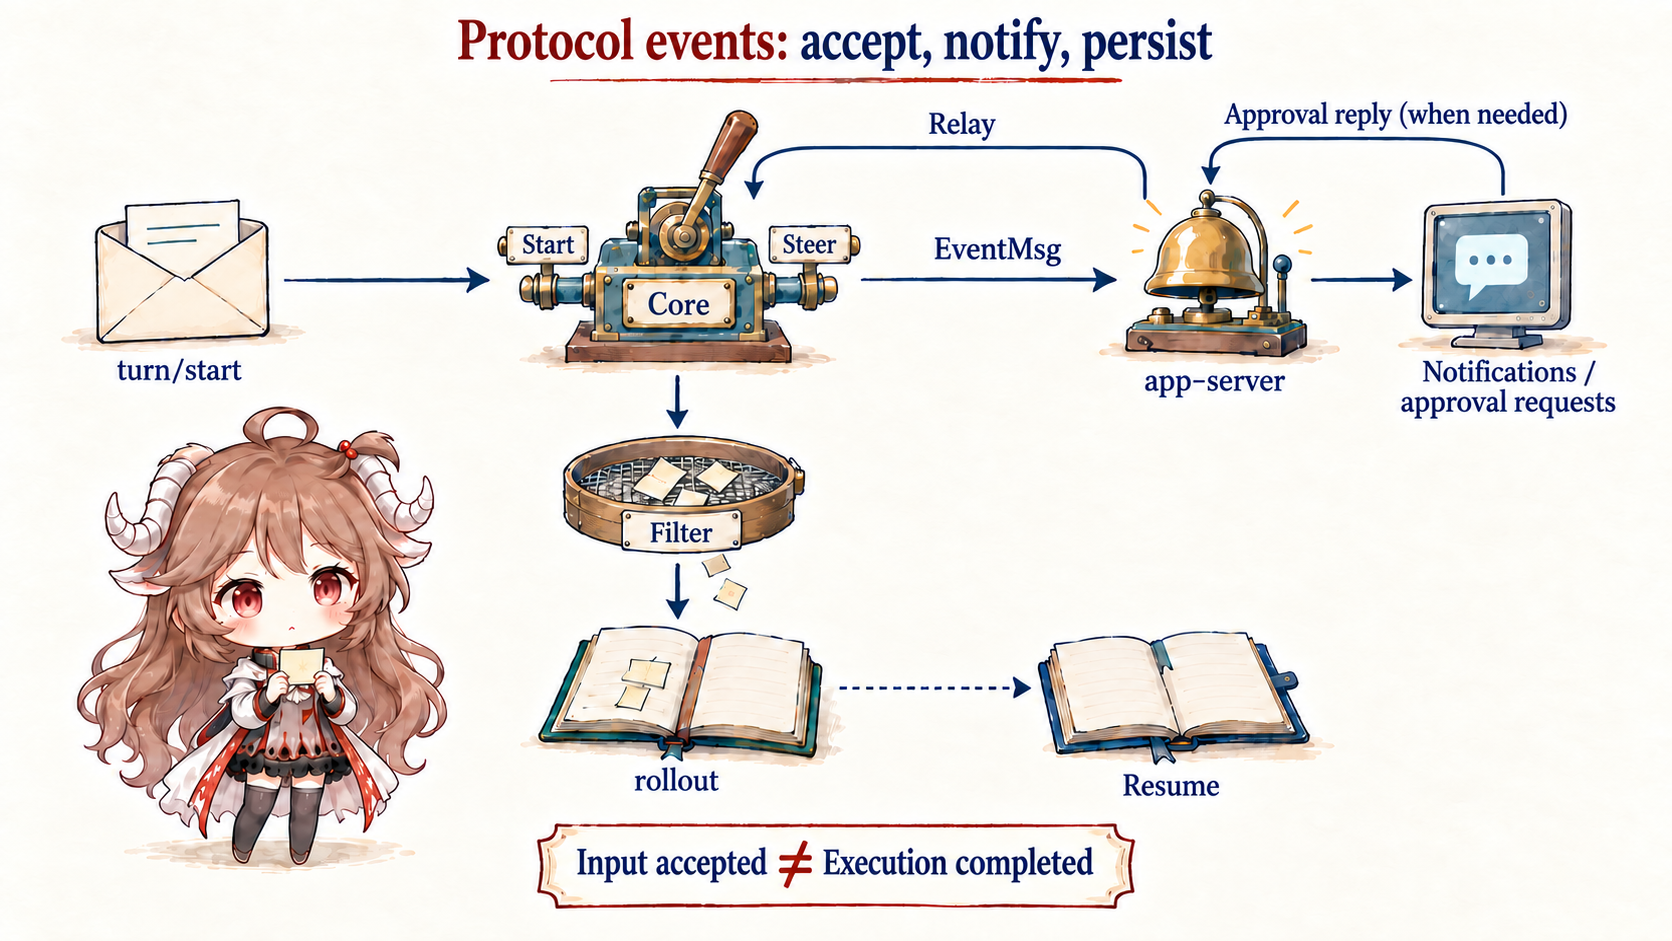
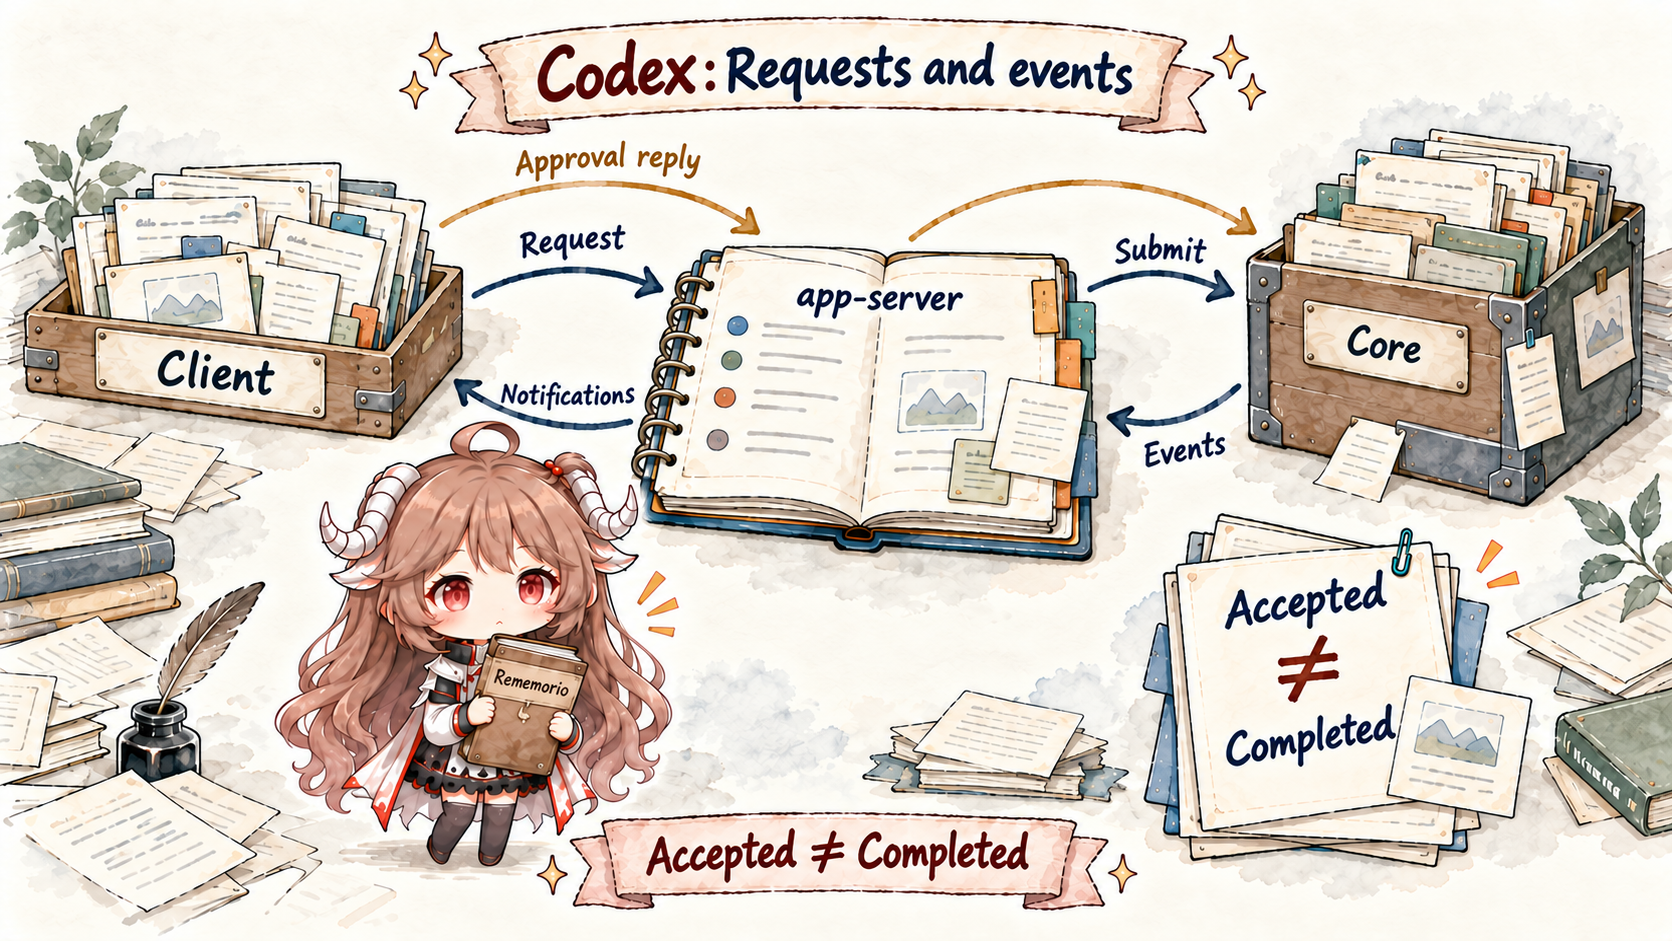
Redraw Codex protocol figures in memory illustration style

diff --git a/en/index.html b/en/index.html
@@ -1081,7 +1081,7 @@
           </a>
           <a class="post-card" href="../codex/en/protocol-events/" lang="en">
             <span class="post-thumb" aria-hidden="true">
-              <img src="../codex/en/assets/protocol-event-stream.png" alt="Codex starts or steers a turn, maps core events to app-server notifications and approval requests, and separately persists selected rollout records for recovery" />
+              <img src="../codex/en/assets/protocol-event-stream.png" alt="Codex requests and approval replies pass through app-server to Core; events return to the client, while acceptance differs from completion" />
             </span>
             <span>
               <span class="tag">Source notes</span>
@@ -1209,7 +1209,7 @@
           </a>
           <a class="post-card" href="../codex/en/sdk-app-server/" lang="en">
             <span class="post-thumb" aria-hidden="true">
-              <img src="../codex/en/assets/protocol-event-stream.png" alt="App-server parses turn/start input for core, separating notifications, approval replies, and selected persistence" />
+              <img src="../codex/en/assets/protocol-event-stream.png" alt="Codex requests and approval replies pass through app-server to Core; events return to the client, while acceptance differs from completion" />
             </span>
             <span>
               <span class="tag">Source notes</span>

diff --git a/zh/index.html b/zh/index.html
@@ -1107,7 +1107,7 @@
           </a>
           <a class="post-card" href="../codex/zh/protocol-events/" lang="zh-CN">
             <span class="post-thumb" aria-hidden="true">
-              <img src="../codex/zh/assets/protocol-event-stream.png" alt="Codex 从 turn/start 启动或补充 turn，core 事件经 app-server 转成通知和审批请求，另一路筛选保存到 rollout 供恢复" />
+              <img src="../codex/zh/assets/protocol-event-stream.png" alt="Codex 请求经 app-server 提交到 Core，事件返回客户端，审批答复同样经过 app-server，已接受不等于已完成" />
             </span>
             <span>
               <span class="tag">源码阅读</span>
@@ -1235,7 +1235,7 @@
           </a>
           <a class="post-card" href="../codex/zh/sdk-app-server/" lang="zh-CN">
             <span class="post-thumb" aria-hidden="true">
-              <img src="../codex/zh/assets/protocol-event-stream.png" alt="turn/start 输入经 app-server 解析后进入 core，通知、审批往返与筛选持久化分开" />
+              <img src="../codex/zh/assets/protocol-event-stream.png" alt="Codex 请求经 app-server 提交到 Core，事件返回客户端，审批答复同样经过 app-server，已接受不等于已完成" />
             </span>
             <span>
               <span class="tag">源码阅读</span>

diff --git a/codex/en/index.html b/codex/en/index.html
@@ -279,7 +279,7 @@
         </a>
         <a class="post-card" href="./protocol-events/">
           <span class="post-thumb" aria-hidden="true">
-            <img src="assets/protocol-event-stream.png" alt="Codex starts or steers a turn, maps core events to app-server notifications and approval requests, and separately persists selected rollout records for recovery" />
+            <img src="assets/protocol-event-stream.png" alt="Codex requests and approval replies pass through app-server to Core; events return to the client, while acceptance differs from completion" />
           </span>
           <span>
             <span class="tag">Source Notes · Part III</span>
@@ -407,7 +407,7 @@
         </a>
         <a class="post-card" href="./sdk-app-server/">
           <span class="post-thumb" aria-hidden="true">
-            <img src="assets/protocol-event-stream.png" alt="App-server parses turn/start input for core, separating notifications, approval replies, and selected persistence" />
+            <img src="assets/protocol-event-stream.png" alt="Codex requests and approval replies pass through app-server to Core; events return to the client, while acceptance differs from completion" />
           </span>
           <span>
             <span class="tag">Source Notes · Part XI</span>

diff --git a/codex/zh/index.html b/codex/zh/index.html
@@ -278,7 +278,7 @@
         </a>
         <a class="post-card" href="./protocol-events/">
           <span class="post-thumb" aria-hidden="true">
-            <img src="assets/protocol-event-stream.png" alt="Codex 从 turn/start 启动或补充 turn，core 事件经 app-server 转成通知和审批请求，另一路筛选保存到 rollout 供恢复" />
+            <img src="assets/protocol-event-stream.png" alt="Codex 请求经 app-server 提交到 Core，事件返回客户端，审批答复同样经过 app-server，已接受不等于已完成" />
           </span>
           <span>
             <span class="tag">源码阅读 · 第三篇</span>
@@ -406,7 +406,7 @@
         </a>
         <a class="post-card" href="./sdk-app-server/">
           <span class="post-thumb" aria-hidden="true">
-            <img src="assets/protocol-event-stream.png" alt="turn/start 输入经 app-server 解析后进入 core，通知、审批往返与筛选持久化分开" />
+            <img src="assets/protocol-event-stream.png" alt="Codex 请求经 app-server 提交到 Core，事件返回客户端，审批答复同样经过 app-server，已接受不等于已完成" />
           </span>
           <span>
             <span class="tag">源码阅读 · 第十一篇</span>

diff --git a/codex/en/protocol-events/index.html b/codex/en/protocol-events/index.html
@@ -98,9 +98,9 @@
             <figure class="hero-image">
               <img
                 src="../assets/protocol-event-stream.png"
-                alt="Codex starts or steers a turn, maps core events to app-server notifications and approval requests, and separately persists selected rollout records for recovery"
+                alt="Codex requests and approval replies pass through app-server to Core; events return to the client, while acceptance differs from completion"
               />
-              <figcaption>The turn/start envelope represents input parsed by app-server; approval replies return through app-server to core; the dashed arrow represents later recovery. Input acceptance, turn completion, and durable writes are separate stages.</figcaption>
+              <figcaption>This figure focuses on request and event traffic: app-server parses requests, forwards approval replies, and projects Core events into client notifications. Accepted input does not mean a completed turn.</figcaption>
             </figure>
           </section>
 

diff --git a/codex/zh/protocol-events/index.html b/codex/zh/protocol-events/index.html
@@ -98,9 +98,9 @@
             <figure class="hero-image">
               <img
                 src="../assets/protocol-event-stream.png"
-                alt="Codex 从 turn/start 启动或补充 turn，core 事件经 app-server 转成通知和审批请求，另一路筛选保存到 rollout 供恢复"
+                alt="Codex 请求经 app-server 提交到 Core，事件返回客户端，审批答复同样经过 app-server，已接受不等于已完成"
               />
-              <figcaption>图中 turn/start 表示经 app-server 解析后的输入；审批回复先回 app-server，再转交 core；虚线表示后续恢复。成功接收输入、turn 完成与记录落盘是三个不同阶段。</figcaption>
+              <figcaption>这张图聚焦请求与事件往返：app-server 解析请求、转发审批答复，并把 Core 事件转换为客户端通知。输入已接受不代表 turn 已完成。</figcaption>
             </figure>
           </section>
 

diff --git a/codex/en/sdk-app-server/index.html b/codex/en/sdk-app-server/index.html
@@ -100,9 +100,9 @@
             <figure class="hero-image">
               <img
                 src="../assets/protocol-event-stream.png"
-                alt="App-server parses turn/start input for core, separating notifications, approval replies, and selected persistence"
+                alt="Codex requests and approval replies pass through app-server to Core; events return to the client, while acceptance differs from completion"
               />
-              <figcaption>The turn/start envelope represents input parsed by app-server; approval replies also return through app-server.</figcaption>
+              <figcaption>This figure focuses on request and event traffic: app-server parses requests, forwards approval replies, and projects Core events into client notifications. Accepted input does not mean a completed turn.</figcaption>
             </figure>
           </section>
 

diff --git a/codex/zh/sdk-app-server/index.html b/codex/zh/sdk-app-server/index.html
@@ -98,9 +98,9 @@
             <figure class="hero-image">
               <img
                 src="../assets/protocol-event-stream.png"
-                alt="turn/start 输入经 app-server 解析后进入 core，通知、审批往返与筛选持久化分开"
+                alt="Codex 请求经 app-server 提交到 Core，事件返回客户端，审批答复同样经过 app-server，已接受不等于已完成"
               />
-              <figcaption>turn/start 示意输入经 app-server 解析后进入 core；审批回复也由 app-server 回传。</figcaption>
+              <figcaption>这张图聚焦请求与事件往返：app-server 解析请求、转发审批答复，并把 Core 事件转换为客户端通知。输入已接受不代表 turn 已完成。</figcaption>
             </figure>
           </section>
 
